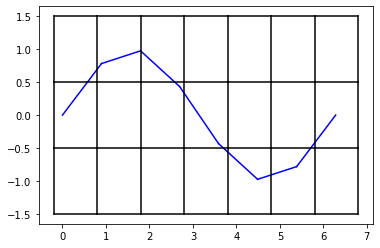
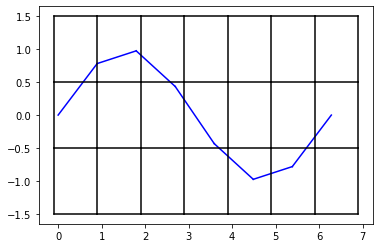
deploy: 03c8ed124cc1a6a7a25b91649d7337421f6df428

diff --git a/examples/02_mesh1d_basics.html b/examples/02_mesh1d_basics.html
@@ -244,7 +244,7 @@
 <p>We also use <code class="docutils literal notranslate"><span class="pre">Mesh2dFactory</span></code> to create a <code class="docutils literal notranslate"><span class="pre">Mesh2d</span></code> instance.</p>
 <div class="cell docutils container">
 <div class="cell_input docutils container">
-<div class="highlight-ipython3 notranslate"><div class="highlight"><pre><span></span><span class="n">mesh2d_input</span> <span class="o">=</span> <span class="n">Mesh2dFactory</span><span class="o">.</span><span class="n">create_rectilinear_mesh</span><span class="p">(</span><span class="mi">3</span><span class="p">,</span> <span class="mi">7</span><span class="p">,</span> <span class="n">origin_x</span><span class="o">=-</span><span class="mf">0.2</span><span class="p">,</span> <span class="n">origin_y</span><span class="o">=-</span><span class="mf">1.5</span><span class="p">)</span>
+<div class="highlight-ipython3 notranslate"><div class="highlight"><pre><span></span><span class="n">mesh2d_input</span> <span class="o">=</span> <span class="n">Mesh2dFactory</span><span class="o">.</span><span class="n">create_rectilinear_mesh</span><span class="p">(</span><span class="mi">3</span><span class="p">,</span> <span class="mi">7</span><span class="p">,</span> <span class="n">origin_x</span><span class="o">=-</span><span class="mf">0.1</span><span class="p">,</span> <span class="n">origin_y</span><span class="o">=-</span><span class="mf">1.5</span><span class="p">)</span>
 </pre></div>
 </div>
 </div>
